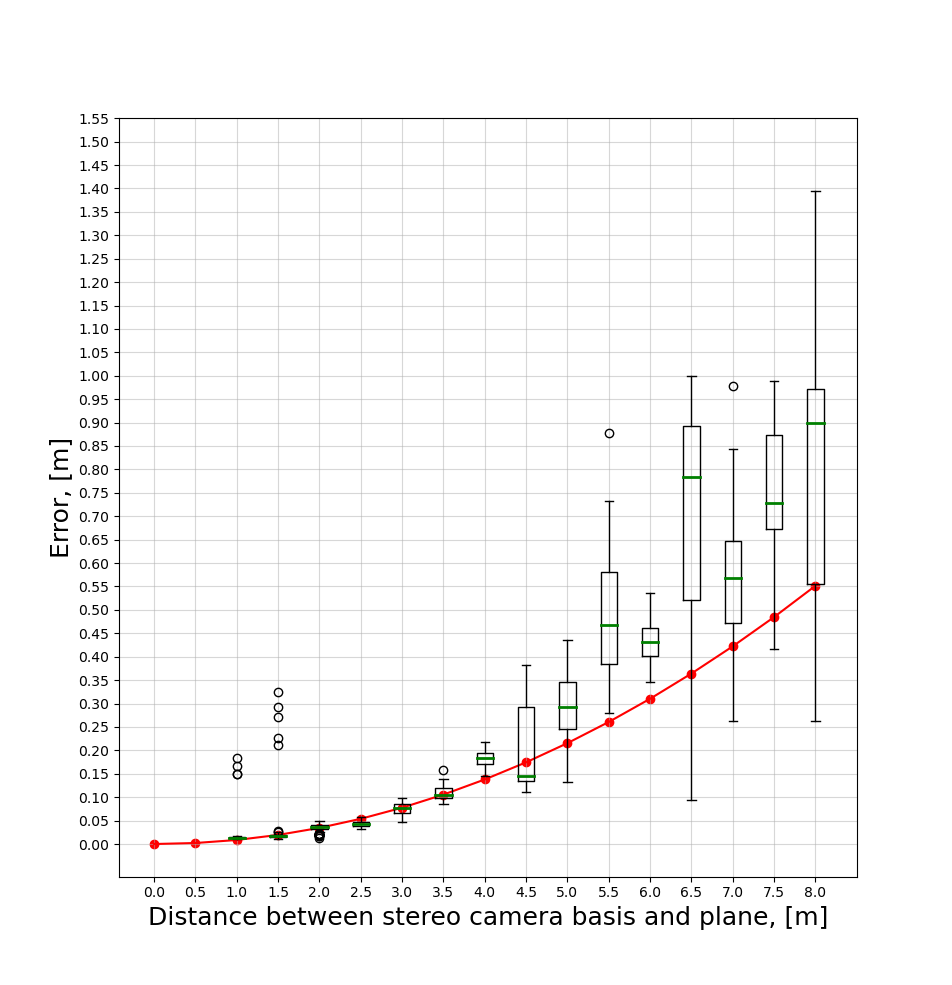
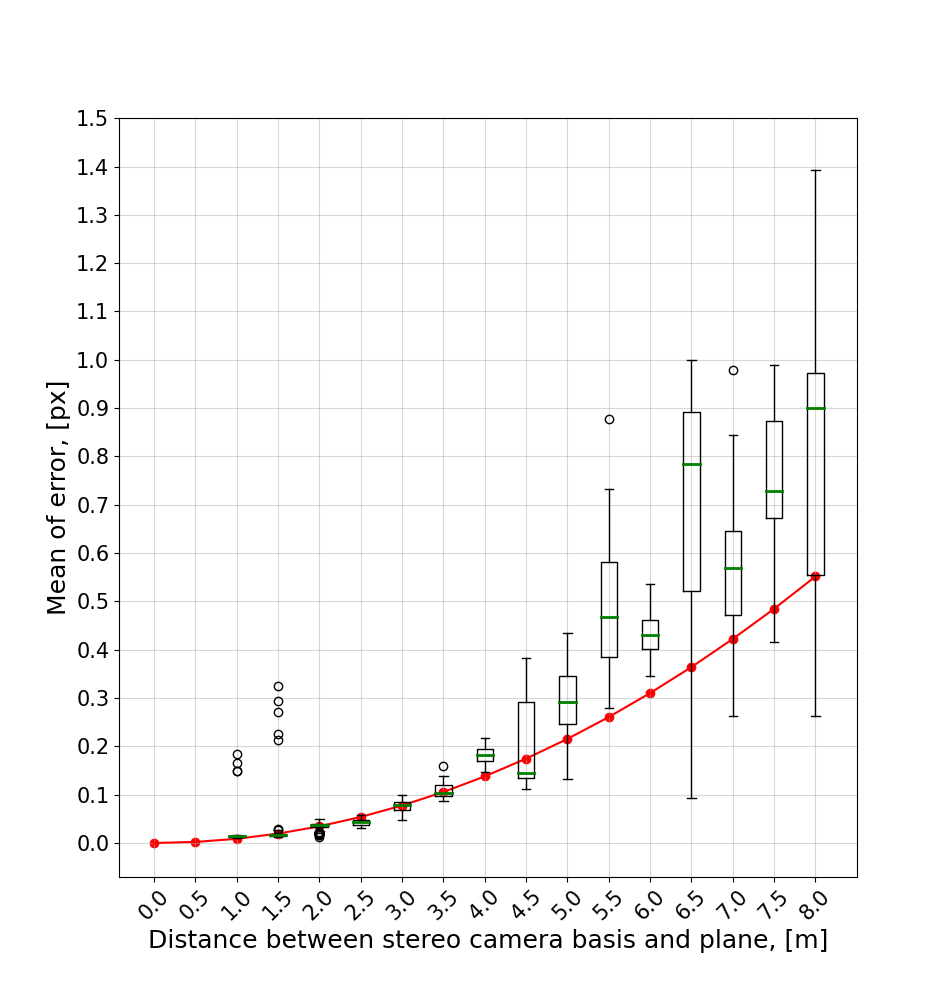
update evaluation and abstract; plots replaced; plots' analysis added

diff --git a/chapters/evaluation.tex b/chapters/evaluation.tex
@@ -51,9 +51,11 @@ The same pattern with visible key points in a featureless environment was used \
 \begin{figure}[ht]
   \begin{subfigure}[ht]{0.49\textwidth}
     \centering
-    \includegraphics[width=\textwidth]{graphics/experiment_1_chart_planedist.png}
-    \caption[Distance to the estimated plane]{Distance $d$ from the stereo camera to $\Omega$.
-    Blue line represents the expected distance, and red line represents $d'$, computed as mean of $n$ estimated distances.}
+    \includegraphics[width=\textwidth]{graphics/experiment_1_general.png}
+    \caption[The first experiment results.]{The first experiment results. Red line represents the theoretical error for the given setup. Green lines represents the median for each $n$ measurements at a distance $d$ from the stereo camera to $\Omega$.
+    Box is drown from the first quartile to the third quartile.
+    The whiskers go from each quartile to maximum and minimum.
+    Black points represents outliers.}
     \label{fig:exp_1_chart_dists}
   \end{subfigure}
   \hfill
@@ -78,7 +80,7 @@ The same pattern with visible key points in a featureless environment was used \
   \caption[The second experiment results.]{The second experiment results. Red line represents the theoretical error for the given setup.
   Green lines represents the median for each $n$ measurements at a distance $d$. Box is drown from the first quartile to the third quartile.
   The whiskers go from each quartile to the minimum and maximum.
-  Points represents outliers.}
+  Black points represents outliers.}
   \label{fig:exp_2_general}
 \end{figure}
 
@@ -104,14 +106,18 @@ To compute the theoretical error for the current prototype, the following data w
 
 \subsection{Distance to an estimated plane}
 \label{sec:exp1}
-For each set of 3D points corresponding to a specific distance $d$, the plane is estimated using RANSAC to filter outliers (an implementation from PCL was used).
-The absolute difference between the distance from the camera to the computed plane and the distance from the camera to the wall plane is taken as the error.
+For each set of 3D points corresponding to a specific distance $d$, the plane $\Omega'$ is estimated using RANSAC to filter outliers (an implementation from PCL was used).
+The error is defined as
+\begin{equation}
+    e_i = \frac{1}{k}\sum_{j=0}^{k}{|d - d'_i|},
+\end{equation}
+where $d'_i$ is a distance to $\Omega'$ for each measurement.
 
-The distance $d$ for this experiment was from $1$m to $5$m with a step of $0.5$m.
+The absolute error $e_i$ for distance of $d$ for this experiment was from $1$m to $5$m with a step of $0.5$m.
 The result of this experiment is shown in \autoref{fig:exp_1_chart_dists}.
-According to the figure, the distance deviates significantly after $3.5$m.
+According to the figure, the distance deviates significantly after $3.5$m, and the error grows much faster than estimated.
 In \autoref{fig:exp_1_topview} the topview of the experiment is shown for $d=4$m.
-It can be seen that the plane can not be estimated correctly at this distance because of a small error for each triangulated point.
+It can be seen that the plane can not be estimated correctly at this distance using RANSAC anymore, because of a small error for each triangulated point.
 
 \subsection{Distance to a predefined plane}
 \label{sec:exp2}
@@ -134,6 +140,8 @@ One of the possible problems here could be that the theoretical error does not i
 The second one is that there is an error in camera calibration and fixed focal length (cameras were calibrated on a small distance up to $3$m), so detected patterns on a bigger distances are blurred and less detectable. 
 
 \section{Rate testing}
+To ensure that obstacles can be detected, not only triangulation quality is important, but also the rate at which the MAV can receive the data from the obstacle avoidance module and the delay of the data.
+The data rate, maximal and minimal delays for 5min are shown in \autoref{tab:eval_freq}.
 \begin{table}[ht]
     \begin{center}
       \begin{tabular}{ll}
@@ -147,9 +155,6 @@ The second one is that there is an error in camera calibration and fixed focal l
     \caption{Measured data delay and rate of the proposed system.}
     \label{tab:eval_freq}
 \end{table}
-
-To ensure that obstacles can be detected, not only triangulation quality is important, but also the rate at which the MAV can receive the data from the obstacle avoidance module and the delay of the data.
-The data rate, maximal and minimal delays for 5min are shown in \autoref{tab:eval_freq}.
  
 \section{Experiments summary}
 The quality of the distance estimation to obstacles was demonstrated in the two experiments.
